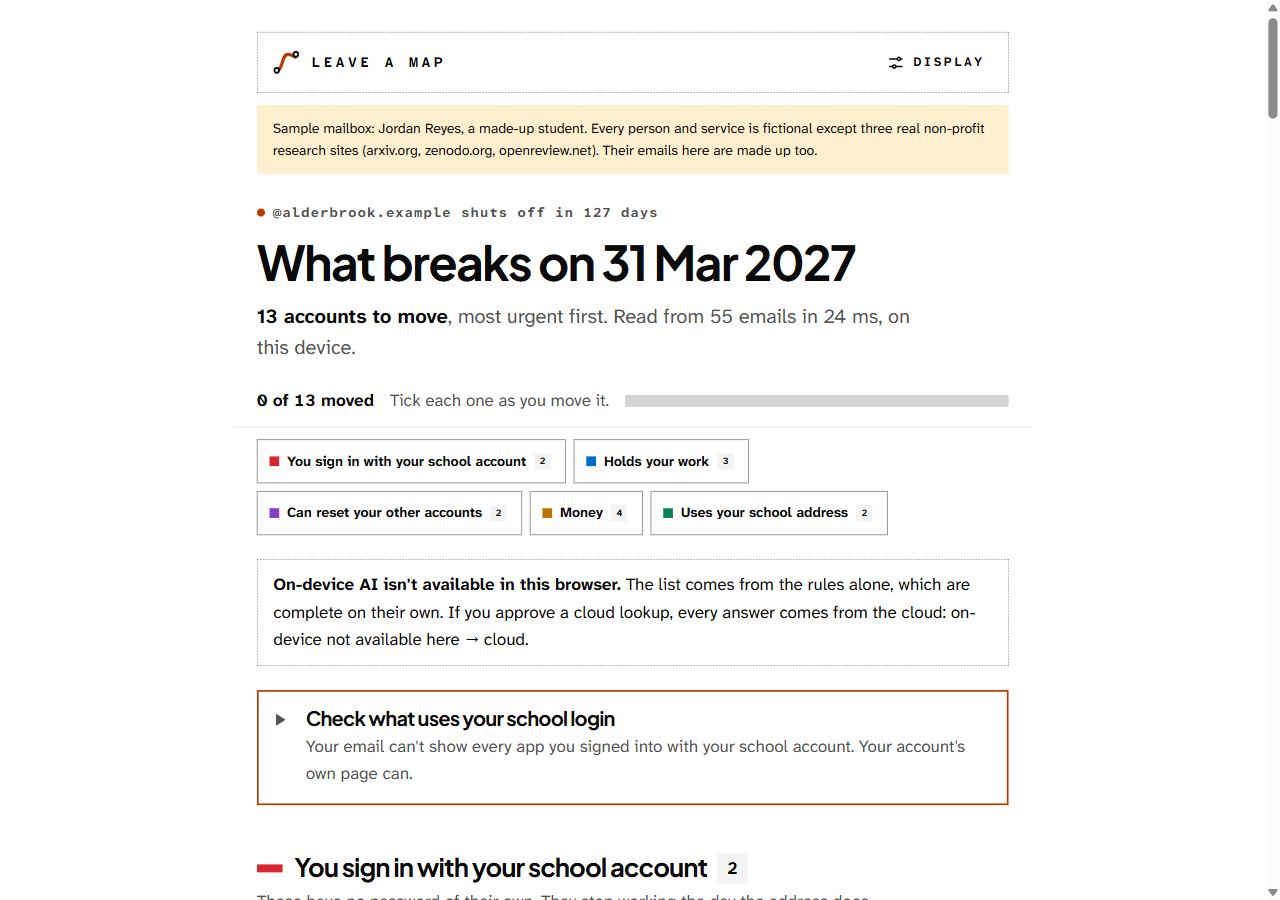
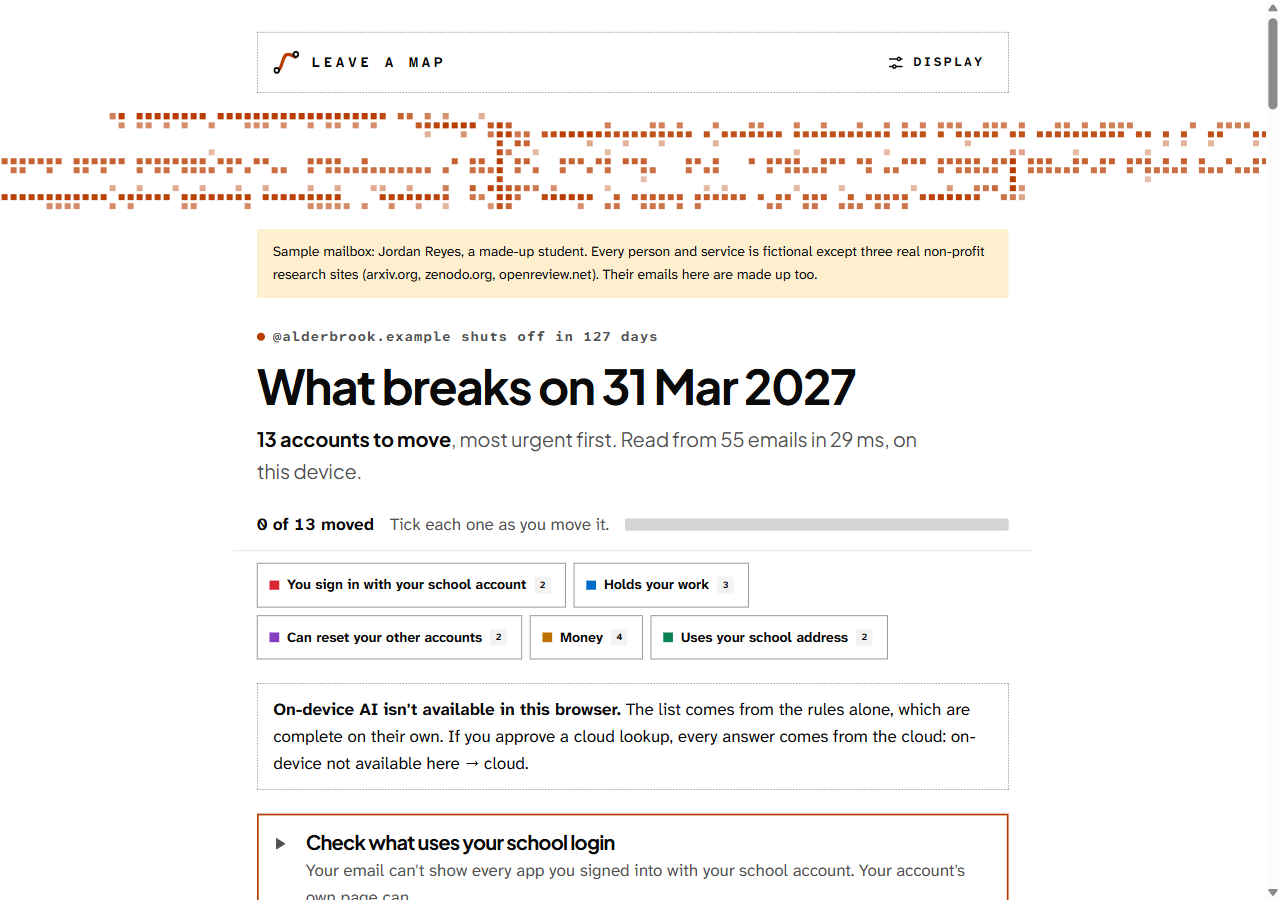
Dot-field background and reference-style type
- pixel-field.tsx: canvas of orange squares along the route lines. Flickers,
  turns into a ring as you scroll, grows from the centre during the scan,
  and shows as a band on the map. aria-hidden, one still frame with motion off.
- Start hero: mono kicker row, lede, very large tight headline with an
  orange full stop.
- Scan: big handwritten percentage (Architects Daughter) under the field.
- Cards: label/value fact rows.
- DESIGN.md, NOTICE, screenshots updated.

Changed region(s): [[0.0, 0.0933, 1.0, 0.5911], [0.1875, 0.7778, 0.7812, 1.0], [0.1875, 0.6222, 0.75, 0.7467]]

diff --git a/apps/scan/src/styles.css b/apps/scan/src/styles.css
@@ -25,6 +25,7 @@
   --font-display: "Plus Jakarta Sans Variable", system-ui, -apple-system, "Segoe UI", sans-serif;
   --font-body: "Atkinson Hyperlegible Next Variable", system-ui, -apple-system, "Segoe UI", sans-serif;
   --font-mono: "Atkinson Hyperlegible Mono Variable", ui-monospace, "Cascadia Mono", monospace;
+  --font-hand: "Architects Daughter", "Segoe Print", cursive;
 
   --step--1: .875rem;
   --step-0: 1.0625rem;
@@ -125,7 +126,7 @@ h1[tabindex="-1"]:focus { outline: none; }
 
 .page { max-width: 46rem; margin: 0 auto; padding: var(--space-6) var(--space-4) var(--space-8); }
 .page.wide { max-width: 72rem; }
-.lede { font-size: var(--step-1); color: var(--muted); max-width: 38ch; }
+.lede { font-family: var(--font-display); font-size: var(--step-1); font-weight: 400; letter-spacing: -0.01em; color: var(--muted); max-width: 38ch; margin: 0; }
 .muted, .meta { color: var(--muted); font-size: var(--step--1); }
 .domain { font-family: var(--font-mono); font-size: .92em; color: var(--muted); overflow-wrap: break-word; word-break: normal; }
 .error { color: var(--error); font-weight: 700; margin: 0; }
@@ -182,13 +183,9 @@ th { color: var(--muted); font-weight: 700; }
 
 /* ---------- Start ---------- */
 .start { display: grid; gap: var(--space-6); padding-top: var(--space-5); }
-.hero { display: grid; gap: var(--space-4); padding-block: var(--space-5) var(--space-2); }
-.hero h1 { font-size: var(--step-4); line-height: .98; margin: 0; max-width: 15ch; letter-spacing: -0.05em; }
+.hero { display: grid; gap: var(--space-4); padding-block: var(--space-3) var(--space-2); }
+.hero h1 { font-size: clamp(3rem, .8rem + 8.5vw, 7rem); font-weight: 600; line-height: .9; margin: 0; letter-spacing: -0.055em; }
 .hero h1 .dot { color: var(--accent); }
-.hero-art { order: -1; width: 100%; max-width: 18rem; height: auto; justify-self: start; pointer-events: none; }
-.hero-art .route { fill: none; stroke-width: 8; stroke-linecap: butt; stroke-dasharray: 8 4; }
-.hero-art .r1 { stroke: var(--accent); } .hero-art .r2 { stroke: var(--muted); } .hero-art .r3 { stroke: var(--line-strong); }
-.hero-art .stn { fill: var(--paper); stroke: var(--ink); stroke-width: 3; }
 .assure {
   display: flex; gap: var(--space-3); align-items: flex-start; margin: 0;
   padding: var(--space-3) 0; border-block: var(--dash);
@@ -235,11 +232,8 @@ th { color: var(--muted); font-weight: 700; }
 
 /* ---------- Scanning ---------- */
 .scanning { min-height: 80dvh; display: grid; align-content: center; gap: var(--space-4); }
-.scan-art { width: 100%; max-width: 32rem; height: auto; overflow: visible; }
-.scan-art .track { fill: none; stroke: var(--line); stroke-width: 8; stroke-linecap: round; }
-.scan-art .done { fill: none; stroke: var(--accent); stroke-width: 8; stroke-linecap: round; transition: stroke-dashoffset var(--dur-2) var(--ease-out); }
-.scan-art .train { fill: var(--accent); }
-.scan-pct { font-family: var(--font-display); font-size: var(--step-4); font-weight: 700; letter-spacing: -0.05em; line-height: 1; margin: 0; font-variant-numeric: tabular-nums; }
+.scan-pct { margin: 0; text-align: right; font-family: var(--font-hand); font-size: clamp(3.5rem, 2rem + 6vw, 6.5rem); line-height: 1; color: var(--muted); }
+.scan-pct span { font-size: .45em; }
 .scan-count { margin: 0; font-variant-numeric: tabular-nums; color: var(--muted); }
 
 /* ---------- Map: header ---------- */
@@ -251,7 +245,7 @@ th { color: var(--muted); font-weight: 700; }
 }
 .eyebrow::before { content: ""; flex: none; width: .5rem; height: .5rem; border-radius: 50%; background: var(--accent); }
 .map-head h1 { margin: 0; }
-.summary { margin: 0; font-size: var(--step-1); color: var(--muted); }
+.summary { margin: 0; font-family: var(--font-display); font-size: var(--step-1); letter-spacing: -0.01em; color: var(--muted); }
 .summary strong { color: var(--ink); }
 .count { display: inline-grid; place-items: center; min-width: 1.75em; height: 1.75em; padding: 0 .45em; margin-left: .35em; border-radius: var(--radius-s); background: var(--sunk); color: var(--ink); font-family: var(--font-mono); font-size: .68em; font-weight: 700; letter-spacing: 0; vertical-align: .2em; }
 
@@ -443,7 +437,6 @@ details[open] > summary .chev { transform: rotate(90deg); }
   .card { padding: var(--space-3); }
   .card-head { flex-wrap: wrap; }
   .moved { margin-left: 0; }
-  .hero-art { max-width: 12rem; }
   .wordmark { letter-spacing: .12em; font-size: .8rem; }
   .topbar { padding-left: var(--space-3); }
   button.display-btn { padding-inline: .5rem; letter-spacing: .1em; }
@@ -525,19 +518,14 @@ button.chip-btn[aria-pressed="true"] { background: var(--accent-soft); border-co
 :root.motion-ok .screen > :nth-child(4) { animation-delay: 240ms; } :root.motion-ok .screen > :nth-child(5) { animation-delay: 320ms; }
 :root.motion-ok .screen > :nth-child(n+6) { animation-delay: 400ms; }
 :root.motion-ok .hero { animation: none; }
-:root.motion-ok .hero > :not(.hero-art) { animation: rise var(--dur-3) var(--ease-expo) .75s backwards; }
-:root.motion-ok .hero-art .route { animation: fade .9s var(--ease-out) .2s backwards; }
-:root.motion-ok .hero-art .r2 { animation-delay: .55s; } :root.motion-ok .hero-art .r3 { animation-delay: .8s; }
-:root.motion-ok .hero-art .stn { transform-box: fill-box; transform-origin: center; animation: pop .6s var(--ease-expo) backwards; }
-:root.motion-ok .hero-art .stn:nth-of-type(1) { animation-delay: 1.1s; } :root.motion-ok .hero-art .stn:nth-of-type(2) { animation-delay: 1.25s; }
-:root.motion-ok .hero-art .stn:nth-of-type(3) { animation-delay: 1.4s; } :root.motion-ok .hero-art .stn:nth-of-type(4) { animation-delay: 1.55s; }
+:root.motion-ok .hero > .pixel-field { animation: fade 1.2s var(--ease-out) backwards; }
+:root.motion-ok .hero > :not(.pixel-field) { animation: rise var(--dur-3) var(--ease-expo) .5s backwards; }
 /* Typing: a station lights up when its answer is in */
 :root.motion-ok .station.is-done .station-n { animation: pop .5s var(--ease-expo); }
 :root.motion-ok .field-note.is-good, :root.motion-ok .field-note.is-warn { animation: rise .35s var(--ease-expo); }
 :root.motion-ok .display-panel:popover-open { animation: panel .32s var(--ease-expo); }
 
 /* Scanning */
-:root.motion-ok .scan-art .train { animation: pulse 1.2s ease-in-out infinite; transform-box: fill-box; transform-origin: center; }
 :root.motion-ok .scan-status { animation: rise .4s var(--ease-expo); }
 
 /* Map */
@@ -582,7 +570,7 @@ button.chip-btn[aria-pressed="true"] { background: var(--accent-soft); border-co
 /* ---------- Print: the list as a checklist on paper ---------- */
 @media print {
   .progress { position: static; }
-  .cloud, .nano, .no-ai, .skip, button, .hero-art { display: none !important; }
+  .cloud, .nano, .no-ai, .skip, button, .pixel-field { display: none !important; }
   .card { box-shadow: none; break-inside: avoid; }
   details { display: block; }
 }
@@ -598,3 +586,24 @@ button.chip-btn[aria-pressed="true"] { background: var(--accent-soft); border-co
 .mode-text { display: grid; gap: var(--space-1); }
 .mode-text span { color: var(--muted); }
 .loss-note { margin: 0; padding: var(--space-4); border: var(--dash); border-radius: var(--radius-m); background: var(--sunk); max-width: 62ch; }
+
+
+/* ---------- Pixel field and the reference-style text ---------- */
+/* The dot-matrix canvas (pixel-field.tsx) runs edge to edge; it reads its colour from `color`. */
+.pixel-field { display: block; width: 100vw; margin-inline: calc(50% - 50vw); height: clamp(15rem, 44vh, 26rem); color: var(--accent); }
+.pixel-field.band { height: 6.5rem; margin-block: var(--space-2) 0; }
+.scan-stage .pixel-field { height: clamp(16rem, 50vh, 30rem); }
+:root[data-contrast="more"] .pixel-field { opacity: .75; }
+@media (forced-colors: active) { .pixel-field { display: none; } }
+
+/* Small labels in a row, like a sign: what this is, and a status with a dot. */
+.kicker { display: flex; flex-wrap: wrap; justify-content: space-between; gap: var(--space-2) var(--space-4); margin: 0;
+  font-family: var(--font-mono); font-size: .8rem; font-weight: 700; text-transform: uppercase; letter-spacing: .18em; color: var(--muted); }
+.kicker .live { display: inline-flex; align-items: center; gap: .55rem; }
+.kicker .live::before { content: ""; width: .5rem; height: .5rem; border-radius: 50%; background: var(--accent); }
+
+/* Card facts: label over value, side by side. */
+.facts { display: flex; flex-wrap: wrap; gap: var(--space-3) var(--space-6); margin: var(--space-4) 0 0; padding-top: var(--space-3); border-top: var(--dash); }
+.facts div { min-width: 0; }
+.facts dt { font-family: var(--font-mono); font-size: .78rem; font-weight: 700; text-transform: uppercase; letter-spacing: .14em; color: var(--muted); }
+.facts dd { margin: .15rem 0 0; font-family: var(--font-display); font-weight: 600; }

diff --git a/apps/scan/src/pixel-field.tsx b/apps/scan/src/pixel-field.tsx
@@ -1,0 +1,104 @@
+// A dot-matrix picture drawn on a canvas: small squares in the accent colour, densest along three
+// route lines and their stops, thinning out at the edges. It flickers a little, changes shape as
+// you scroll (the routes gather into one big stop), and can grow out from the centre as `grow` goes
+// from 0 to 1 (the scan screen). Decorative only: aria-hidden, and with motion off it draws one
+// still frame. Text never sits on top of it.
+import { useEffect, useRef } from 'preact/hooks';
+
+type Props = { grow?: number; morph?: boolean; class?: string };
+
+const CELL = 9;   // grid pitch in CSS px
+const DOT = 6;    // square size in CSS px
+
+// Route lines in a 0..1 box (x, y pairs), the same three lines as the old route art.
+const ROUTES: number[][] = [
+  [0, .88, .32, .88, .4, .78, .4, .3, .48, .2, 1, .2],
+  [.1, .06, .3, .06, .4, .18, .4, .8, .48, .9, .72, .9, .8, .8, .8, .52],
+  [0, .54, 1, .54],
+];
+const STOPS = [[.4, .54], [.4, .2], [.8, .54], [.4, .88]];
+
+function segDist(px: number, py: number, ax: number, ay: number, bx: number, by: number) {
+  const dx = bx - ax, dy = by - ay;
+  const t = Math.max(0, Math.min(1, ((px - ax) * dx + (py - ay) * dy) / (dx * dx + dy * dy || 1)));
+  return Math.hypot(px - ax - t * dx, py - ay - t * dy);
+}
+
+/** Density 0..1 for the route picture (a) and the single big stop (b), at a point in the box. */
+function density(u: number, v: number, aspect: number): [number, number] {
+  let d = 9;
+  for (const r of ROUTES) for (let i = 0; i + 3 < r.length; i += 2) d = Math.min(d, segDist(u * aspect, v, r[i] * aspect, r[i + 1], r[i + 2] * aspect, r[i + 3]));
+  for (const [x, y] of STOPS) d = Math.min(d, Math.max(0, Math.hypot((u - x) * aspect, v - y) - .05));
+  const a = Math.max(0, 1 - d / .16) ** 1.6;
+  const ring = Math.abs(Math.hypot((u - .5) * aspect, v - .5) - .3);
+  const b = Math.max(0, 1 - ring / .14) ** 1.4;
+  return [a, b];
+}
+
+// Stable per-cell noise, so the picture doesn't jump between frames.
+const hash = (i: number, j: number) => { const s = Math.sin(i * 127.1 + j * 311.7) * 43758.5453; return s - Math.floor(s); };
+
+export function PixelField({ grow = 1, morph = false, class: cls = '' }: Props) {
+  const ref = useRef<HTMLCanvasElement>(null);
+  const growRef = useRef(grow);
+  growRef.current = grow;
+
+  useEffect(() => {
+    const cv = ref.current!;
+    const cx = cv.getContext('2d');
+    if (!cx) return;
+    let cols = 0, rows = 0, A = new Float32Array(0), B = new Float32Array(0), N = new Float32Array(0);
+    let colour = '#f97316', raf = 0, last = 0;
+    const moving = () => document.documentElement.classList.contains('motion-ok');
+
+    const layout = () => {
+      const r = cv.getBoundingClientRect(), dpr = Math.min(2, devicePixelRatio || 1);
+      cv.width = Math.round(r.width * dpr); cv.height = Math.round(r.height * dpr);
+      cx.setTransform(dpr, 0, 0, dpr, 0, 0);
+      cols = Math.floor(r.width / CELL); rows = Math.floor(r.height / CELL);
+      const aspect = r.width / Math.max(1, r.height);
+      A = new Float32Array(cols * rows); B = new Float32Array(cols * rows); N = new Float32Array(cols * rows);
+      for (let j = 0; j < rows; j++) for (let i = 0; i < cols; i++) {
+        const k = j * cols + i, [a, b] = density((i + .5) / cols, (j + .5) / rows, aspect);
+        A[k] = a; B[k] = b; N[k] = hash(i, j);
+      }
+      colour = getComputedStyle(cv).color || colour;
+    };
+
+    const draw = (t: number) => {
+      const w = cols * CELL, h = rows * CELL, g = growRef.current, live = moving();
+      const box = cv.getBoundingClientRect();
+      // Scroll morph: 0 while the field is in view, 1 once it has scrolled most of the way out.
+      const m = morph && live ? Math.max(0, Math.min(1, -box.top / Math.max(1, box.height * .8))) : 0;
+      cx.clearRect(0, 0, cv.width, cv.height);
+      cx.fillStyle = colour;
+      for (let j = 0; j < rows; j++) for (let i = 0; i < cols; i++) {
+        const k = j * cols + i, n = N[k];
+        let d = A[k] + (B[k] - A[k]) * m;
+        if (g < 1) { const r = Math.hypot((i + .5) / cols - .5, ((j + .5) / rows - .5) * h / Math.max(1, w)); d *= Math.max(0, Math.min(1, (g * .75 - r) / .06)); }
+        if (d <= 0) continue;   // flicker never lights a cell outside the shape
+        const flicker = live ? .07 * Math.sin(t / 380 + n * 40) : 0;
+        if (n > d + flicker) continue;
+        cx.globalAlpha = Math.min(1, .3 + d * .8);
+        cx.fillRect(i * CELL, j * CELL, DOT, DOT);
+      }
+      cx.globalAlpha = 1;
+    };
+
+    // ponytail: ~12 frames a second is enough for a dot-matrix flicker and keeps the CPU quiet.
+    const loop = (t: number) => { if (t - last > 80) { last = t; draw(t); } raf = requestAnimationFrame(loop); };
+    const start = () => { cancelAnimationFrame(raf); layout(); if (moving()) raf = requestAnimationFrame(loop); else draw(0); };
+    start();
+    const redraw = () => draw(0);
+    cv.addEventListener('lam-redraw', redraw);
+    const ro = new ResizeObserver(start); ro.observe(cv);
+    // Redraw when the Display menu changes the theme or motion.
+    const mo = new MutationObserver(start); mo.observe(document.documentElement, { attributes: true, attributeFilter: ['class', 'data-theme', 'data-contrast'] });
+    return () => { cancelAnimationFrame(raf); cv.removeEventListener('lam-redraw', redraw); ro.disconnect(); mo.disconnect(); };
+  }, [morph]);
+
+  // With motion off there is no loop, so redraw when `grow` changes.
+  useEffect(() => { if (!document.documentElement.classList.contains('motion-ok')) ref.current?.dispatchEvent(new Event('lam-redraw')); }, [grow]);
+
+  return <canvas ref={ref} class={`pixel-field ${cls}`} aria-hidden="true" />;
+}

diff --git a/apps/scan/src/main.tsx b/apps/scan/src/main.tsx
@@ -6,9 +6,11 @@ import { lazy, Suspense } from 'preact/compat';
 import '@fontsource-variable/atkinson-hyperlegible-next';
 import '@fontsource-variable/atkinson-hyperlegible-mono';
 import '@fontsource-variable/plus-jakarta-sans';
+import '@fontsource/architects-daughter/latin-400.css';
 import './styles.css';
 import { applyDisplay, loadDisplay, TopBar } from './display.tsx';
 import { sampleFailed, sampleLoaded, sampleWanted, STALE_MESSAGE, storage } from './stale-page.ts';
+import { PixelField } from './pixel-field.tsx';
 
 applyDisplay(loadDisplay());
 import { StartScreen } from './screens/start.tsx';
@@ -54,19 +56,16 @@ function App() {
   if (state.step === 'start') return <StartScreen onScan={scan} onSample={trySample} error={state.error} />;
   if (state.step === 'scanning') {
     const pct = state.totalBytes ? Math.floor((state.bytesRead / state.totalBytes) * 100) : 0;
-    const x = 20 + (pct / 100) * 480;
     const loss = state.mode === 'loss';
     const stage = pct < 25 ? 'Opening the mailbox…' : pct < 75 ? `Reading who sends ${loss ? 'them' : 'you'} mail…` : 'Sorting what matters most…';
     return (
       <main id="main" class="page scanning screen">
         <TopBar />
         <h1>Reading {loss ? 'their' : 'your'} mailbox</h1>
-        <p class="scan-pct" aria-hidden="true">{pct}%</p>
-        <svg class="scan-art" viewBox="0 0 520 40" aria-hidden="true" focusable="false">
-          <path class="track" d="M20 20 H500" />
-          <path class="done" d="M20 20 H500" pathLength={1} stroke-dasharray="1" stroke-dashoffset={1 - pct / 100} />
-          <circle class="train" cx={x} cy="20" r="9" />
-        </svg>
+        <div class="scan-stage" aria-hidden="true">
+          <PixelField grow={pct / 100} />
+          <p class="scan-pct">{pct}<span>%</span></p>
+        </div>
         <progress class="vh" max={100} value={pct} aria-label="Scan progress" />
         <p class="scan-count" aria-live="polite">{pct}% · {state.messages.toLocaleString()} emails read</p>
         <p class="scan-status" key={stage}>{stage}</p>

diff --git a/apps/scan/src/screens/map.tsx b/apps/scan/src/screens/map.tsx
@@ -22,6 +22,7 @@ import { applyPack, type Link, type Pack, type ServiceFacts } from '../../../../
 import { loadPack } from '../pack-loader.ts';
 import { Check } from '../icons.tsx';
 import { TopBar } from '../display.tsx';
+import { PixelField } from '../pixel-field.tsx';
 import { COPY, listKey, type Mode } from '../mode.ts';
 
 type Props = {
@@ -138,7 +139,11 @@ function Card({ a, mode, rank, moved, onMoved, info, facts }: { a: RankedAccount
       {mode === 'loss' ? <LossSteps a={a} /> : <MoveSteps a={a} facts={facts} />}
       {info && <Lane3 info={info} />}
       <EvidenceDrawer a={a} mode={mode} />
-      <p class="meta">{a.nLinked} email{a.nLinked === 1 ? '' : 's'} to {mode === 'loss' ? 'their' : 'your school'} address{a.lastDate ? `, last on ${shortDate(a.lastDate)}` : ''}{a.flags.suspiciousIgnored ? `. ${a.flags.suspiciousIgnored} fake-looking email${a.flags.suspiciousIgnored === 1 ? '' : 's'} ignored` : ''}.</p>
+      <dl class="facts">
+        <div><dt>Emails to {mode === 'loss' ? 'their' : 'your'} address</dt><dd>{a.nLinked}</dd></div>
+        {a.lastDate ? <div><dt>Last one</dt><dd>{shortDate(a.lastDate)}</dd></div> : null}
+        {a.flags.suspiciousIgnored ? <div><dt>Fake ones ignored</dt><dd>{a.flags.suspiciousIgnored}</dd></div> : null}
+      </dl>
     </li>
   );
 }
@@ -191,6 +196,7 @@ export function MapScreen({ settings, mode, sample, accounts: scanned, stats, ms
     <main id="main" class="page map screen">
       <header class="map-head">
         <TopBar />
+        <PixelField class="band" />
         {sample && <p class="sample-note" role="note">{mode === 'loss'
           ? 'Sample mailbox: Robin Hale, a made-up person. Every person and service in it is fictional.'
           : 'Sample mailbox: Jordan Reyes, a made-up student. Every person and service is fictional except three real non-profit research sites (arxiv.org, zenodo.org, openreview.net). Their emails here are made up too.'}</p>}

diff --git a/apps/scan/src/screens/start.tsx b/apps/scan/src/screens/start.tsx
@@ -1,6 +1,7 @@
 import { useEffect, useState } from 'preact/hooks';
 import type { ScanSettings } from '../../../../packages/core/types.ts';
-import { HeroRoutes, Lock, Upload } from '../icons.tsx';
+import { Lock, Upload } from '../icons.tsx';
+import { PixelField } from '../pixel-field.tsx';
 import { TopBar } from '../display.tsx';
 import { countdown, longDate } from '../dates.ts';
 import type { Mode } from '../mode.ts';
@@ -85,11 +86,12 @@ export function StartScreen({ onScan, onSample, error }: Props) {
     <main id="main" class={`page start screen${over ? ' drop-anywhere' : ''}`}>
       <TopBar />
       <header class="hero">
-        <h1>{loss ? 'Find the accounts they left behind' : 'Your school email is going away'}<span class="dot">.</span></h1>
+        <p class="kicker"><span>{loss ? 'After a death' : 'School email closing'}</span><span class="live">Nothing leaves this device</span></p>
+        <PixelField morph />
         <p class="lede">{loss
           ? 'Their mailbox shows which banks, insurers, bills and sites they used. Make a list, then work through it at your own pace.'
           : 'Find the accounts tied to it before it does. Three quick steps.'}</p>
-        <HeroRoutes />
+        <h1>{loss ? 'Find the accounts they left behind' : 'Your school email is going away'}<span class="dot">.</span></h1>
       </header>
 
       <fieldset class="modes">

diff --git a/apps/scan/src/icons.tsx b/apps/scan/src/icons.tsx
@@ -14,16 +14,3 @@ export const Lock = () => <svg {...svg}><rect x="4" y="11" width="16" height="10
 export const Upload = () => <svg {...svg}><path d="M12 16V4M7 9l5-5 5 5" /><path d="M4 16v3a1 1 0 0 0 1 1h14a1 1 0 0 0 1-1v-3" /></svg>;
 export const Sliders = () => <svg {...svg}><path d="M4 7h10M18 7h2M4 17h4M12 17h8" /><circle cx="16" cy="7" r="2" /><circle cx="10" cy="17" r="2" /></svg>;
 export const Check = () => <svg {...svg} stroke-width={3.5}><path d="M5 12.5l4.5 4.5L19 7.5" /></svg>;
-
-/** Three lines meeting at stops: the start screen's art. */
-export const HeroRoutes = () => (
-  <svg class="hero-art" aria-hidden="true" focusable="false" viewBox="0 0 360 260">
-    <path class="route r1" d="M10 230 H120 Q150 230 150 200 V90 Q150 60 180 60 H350" />
-    <path class="route r2" d="M40 20 H110 Q150 20 150 60 V200 Q150 230 180 230 H260 Q290 230 290 200 V130" />
-    <path class="route r3" d="M10 140 H350" />
-    <circle class="stn" cx="150" cy="140" r="11" />
-    <circle class="stn" cx="150" cy="60" r="8" />
-    <circle class="stn" cx="290" cy="140" r="8" />
-    <circle class="stn" cx="150" cy="230" r="8" />
-  </svg>
-);

diff --git a/docs/DESIGN.md b/docs/DESIGN.md
@@ -23,7 +23,9 @@ Dark by default: black page, warm off-white text, and one orange for the things 
 
 - Square corners everywhere. Frames are thin dashed lines, like a printed map's grid.
 - Short labels (the wordmark, section labels, tiers) are in the mono face, uppercase and widely spaced.
-- The start screen's route art is drawn in dotted segments, like a dot-matrix sign.
+- A **dot field** (`apps/scan/src/pixel-field.tsx`): a canvas of small orange squares, densest along three route lines and their stops. It flickers a little, gathers into one ring as you scroll past it on the start screen, grows out from the centre as the scan runs, and sits as a thin band at the top of the map. It is decorative (`aria-hidden`), text never sits on it, and with motion off it draws one still frame. Forced colours and print hide it.
+- The start screen's header: a mono label row ("School email closing" / "After a death", and "Nothing leaves this device" with an orange dot), the dot field, a short lede, then a very large, tight headline ending in an orange full stop.
+- Account cards end in label/value rows: a mono uppercase label over a bold value (emails to the address, the last one, fake ones ignored).
 - No glows, gradients, blurred glass or confetti.
 
 ## Type
@@ -33,8 +35,9 @@ Dark by default: black page, warm off-white text, and one orange for the things 
 | Headings | Plus Jakarta Sans, weight 700, tight letter spacing | A plain, strong sans for the big headings |
 | Body and UI | Atkinson Hyperlegible Next | Made by the Braille Institute so that easily confused letters (I l 1, O 0) look different |
 | Domains, counts, labels | Atkinson Hyperlegible Mono | Domains are read character by character |
+| The scan's big percentage | Architects Daughter | One handwritten touch; decorative, so it's `aria-hidden` and the real progress is a `<progress>` |
 
-All three fonts are bundled from `@fontsource-variable` (OFL), so they're served from our own origin and the scan CSP (`font-src 'self'`) doesn't change. The cloud CSP has no `font-src`, so the consent window uses system fonts.
+All four fonts are bundled from Fontsource (OFL), so they're served from our own origin and the scan CSP (`font-src 'self'`) doesn't change. The cloud CSP has no `font-src`, so the consent window uses system fonts.
 
 Body text is 17 px with a line height of 1.6. Every size is in rem, so browser zoom and text size settings work.
 
@@ -78,7 +81,8 @@ Every main screen has a **Display** button (top right). It opens a native `popov
 All motion is CSS, and it only runs when `<html>` has `.motion-ok`. `display.tsx` sets that class from the Display menu; "Match device" follows `prefers-reduced-motion`. Without the class, every animation and transition is off.
 
 - Screens rise in, one block after another. The dotted routes fade in and the stops pop.
-- The scan screen fills a line, with a pulsing marker at its end.
+- The scan screen's dot field grows out from the centre as the percentage climbs.
+- The dot field flickers at about 12 frames a second, and the start screen's one changes shape as you scroll.
 - A bucket's line grows down, and its cards rise in as they scroll into view (`animation-timeline: view()`, where supported).
 - Stops pop when ticked. In school mode, the progress line says how you're doing ("First one done.", "Over halfway.", "All done."). The other mode stays quiet: "There's no rush."
 - `<details>` open smoothly where `interpolate-size` is supported.
@@ -91,7 +95,7 @@ All motion is CSS, and it only runs when `<html>` has `.motion-ok`. `display.tsx
 - Targets: buttons are 48 px tall and toggles 44 px. Nothing is under 24 px (WCAG 2.5.8).
 - Start form errors are linked to the field (`aria-invalid`), and focus moves to the field. The error itself is `role="alert"`.
 - The file field is a real `<input type="file">` laid over a drop zone, so the keyboard, screen readers and drag and drop all work.
-- The scan progress keeps a native `<progress>` for screen readers. The drawn line is `aria-hidden`.
+- The scan progress keeps a native `<progress>` for screen readers. The dot field and the big handwritten percentage are `aria-hidden`.
 - Print stylesheet: the map prints as a plain checklist.
 
 ## Rules for new UI

diff --git a/NOTICE.md b/NOTICE.md
@@ -37,10 +37,11 @@ Both MIT sources are under this licence, with the copyright lines in the table a
 
 ## Fonts
 
-The scan site bundles these fonts from [Fontsource](https://fontsource.org). All three are under the [SIL Open Font License 1.1](https://openfontlicense.org).
+The scan site bundles these fonts from [Fontsource](https://fontsource.org). All four are under the [SIL Open Font License 1.1](https://openfontlicense.org).
 
 | Font | Copyright |
 |---|---|
 | Atkinson Hyperlegible Next | Copyright 2020-2024 The Atkinson Hyperlegible Next Project Authors |
 | Atkinson Hyperlegible Mono | Copyright 2020-2024 The Atkinson Hyperlegible Mono Project Authors |
 | Plus Jakarta Sans | Copyright 2020 The Plus Jakarta Sans Project Authors |
+| Architects Daughter | Google Inc., as its Fontsource package states (designed by Kimberly Geswein) |
